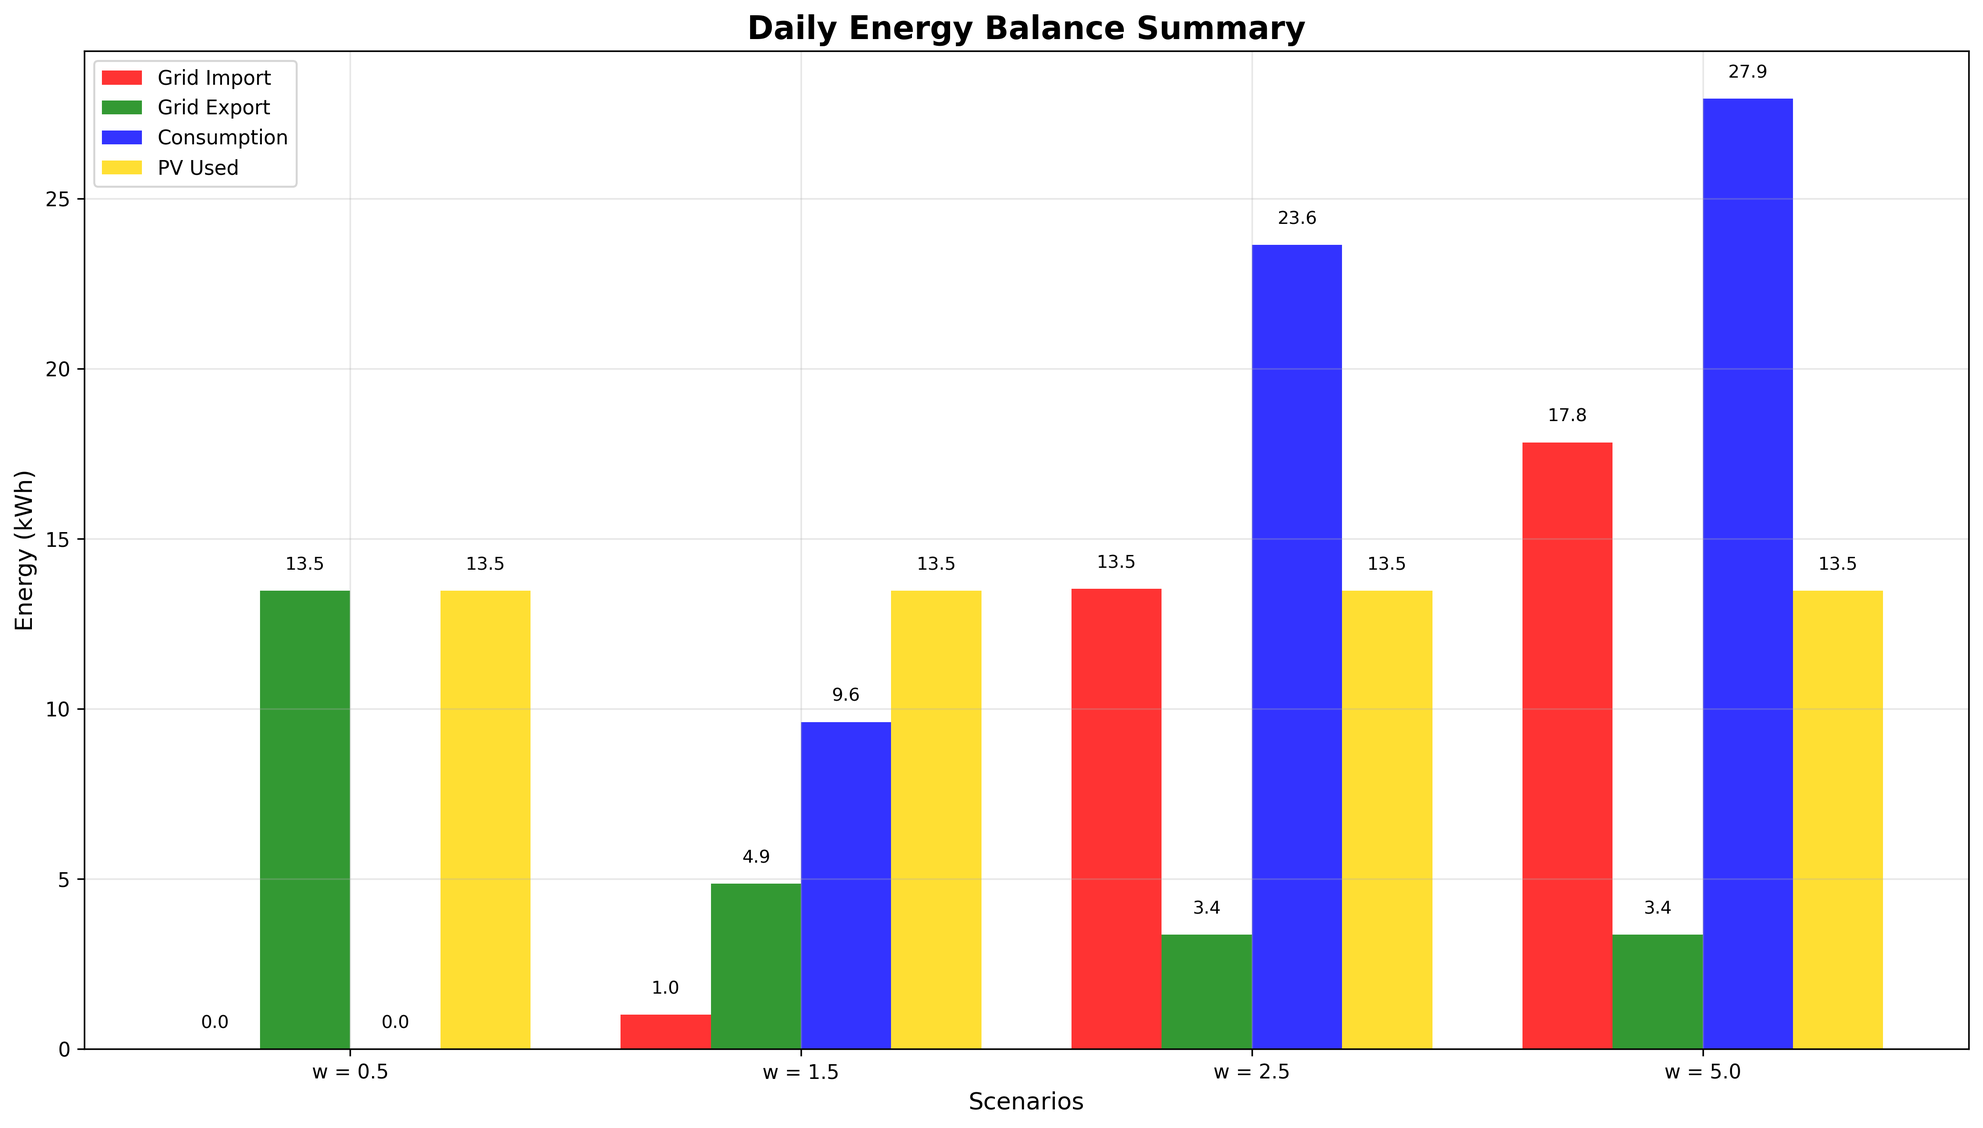
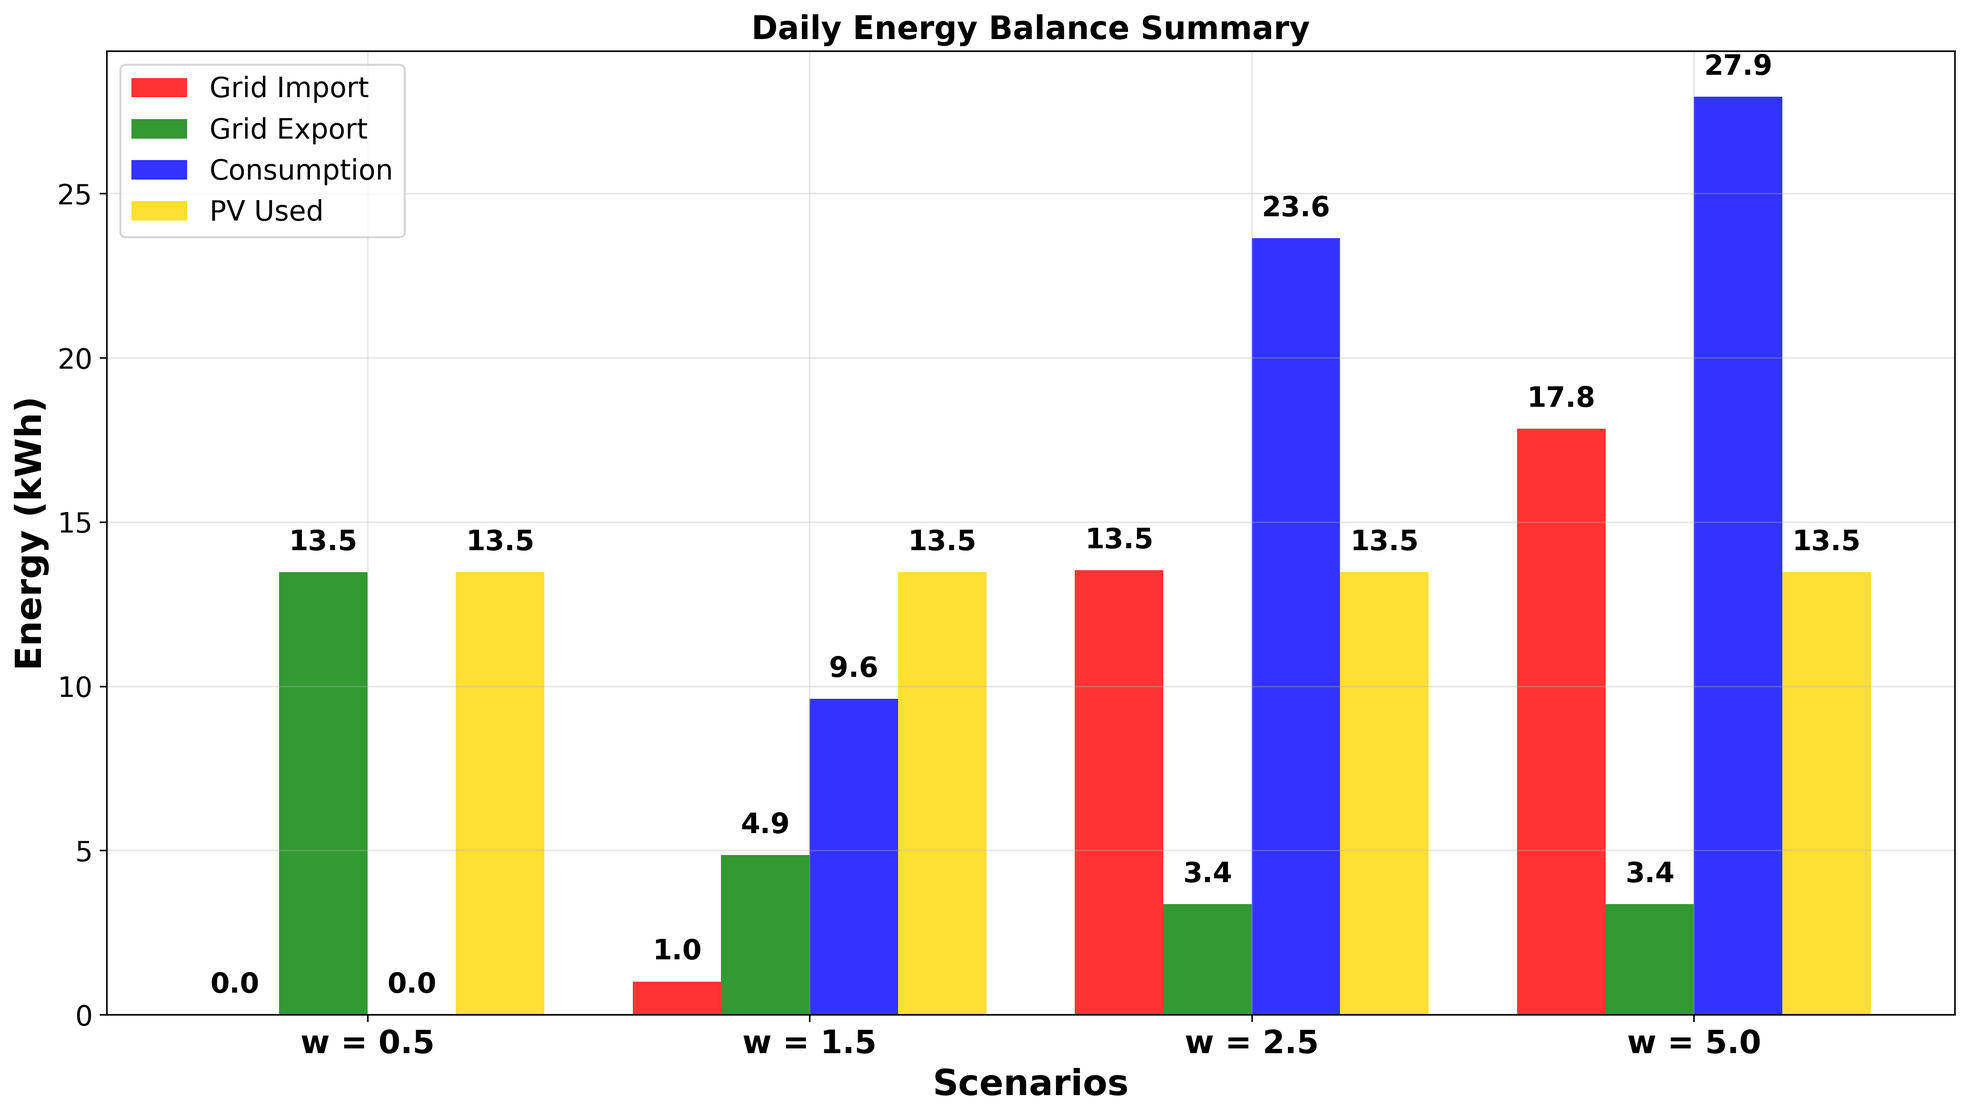
Q1b

diff --git a/src/scripts/q1b_v_final.py b/src/scripts/q1b_v_final.py
@@ -28,6 +28,19 @@ import matplotlib.pyplot as plt
 from pathlib import Path
 import copy
 
+# Configure matplotlib for larger fonts (better for reports)
+plt.rcParams.update({
+    'font.size': 14,           # Base font size
+    'axes.titlesize': 18,      # Title font size
+    'axes.labelsize': 16,      # Axis label font size
+    'xtick.labelsize': 14,     # X tick label font size
+    'ytick.labelsize': 14,     # Y tick label font size
+    'legend.fontsize': 14,     # Legend font size
+    'figure.titlesize': 20,    # Figure title font size
+    'lines.linewidth': 3,      # Line width
+    'lines.markersize': 8      # Marker size
+})
+
 # Add parent directory to path for imports
 sys.path.append(str(Path(__file__).parent.parent))
 
@@ -57,6 +70,129 @@ def load_system_parameters():
         'import_tariff': import_tariff,
         'export_tariff': export_tariff
     }
+
+def print_solution_summary(scenario_results, consumer_results, system_params):
+    """Print comprehensive summary of primal and dual variables for all scenarios"""
+    
+    print("\n" + "="*80)
+    print("📊 COMPREHENSIVE SOLUTION SUMMARY - Q1.b.v")
+    print("="*80)
+    
+    # W-Variation Analysis Summary
+    print("\n🔍 PART 1: W-VARIATION ANALYSIS")
+    print("-" * 50)
+    
+    for i, scenario in enumerate(scenario_results):
+        results = scenario['results']
+        w = scenario['weight']
+        
+        print(f"\n📈 Scenario {i+1}: w = {w} DKK/kWh")
+        print(f"   Total Cost: {results['optimal_cost']:.2f} DKK")
+        print(f"   Energy Cost: {results['energy_cost']:.2f} DKK")
+        print(f"   Discomfort Cost: {results['discomfort_penalty']:.2f} DKK")
+        
+        # Key Primal Variables
+        print("   🔵 Key Primal Variables:")
+        print(f"     • Total Load: {results['total_energy_consumed']:.1f} kWh")
+        print(f"     • Grid Import: {results['total_imported']:.1f} kWh")
+        print(f"     • Grid Export: {results['total_exported']:.1f} kWh")
+        print(f"     • Over-consumption: {results['total_dev_plus']:.1f} kWh")
+        print(f"     • Under-consumption: {results['total_dev_minus']:.1f} kWh")
+        
+        # Key Dual Variables (Shadow Prices)
+        print("   🔴 Key Dual Variables (Shadow Prices):")
+        print(f"     • Avg Energy Balance Dual: {results['avg_dual_energy']:.3f} DKK/kWh")
+        print(f"     • Avg Deviation Balance Dual: {results['avg_dual_deviation']:.3f} DKK/kWh")
+        print(f"     • Peak Import Dual: {results['peak_dual_import']:.3f} DKK/kWh")
+        print(f"     • Peak Export Dual: {results['peak_dual_export']:.3f} DKK/kWh")
+        
+        # Flexibility Metrics
+        ref_total = sum(results['reference_load'])
+        flexibility_used = (results['total_dev_plus'] + results['total_dev_minus'])
+        flexibility_pct = (flexibility_used / ref_total) * 100
+        print(f"   📊 Flexibility: {flexibility_pct:.1f}% of reference load utilized")
+        
+        # Profit Analysis (negative cost = profit from grid arbitrage)
+        if results['energy_cost'] < 0:
+            profit = -results['energy_cost']
+            print(f"   💰 Grid Arbitrage Profit: {profit:.2f} DKK")
+    
+    # Consumer Profile Analysis Summary
+    print(f"\n🔍 PART 2: CONSUMER PROFILE ANALYSIS")
+    print("-" * 50)
+    
+    for i, consumer in enumerate(consumer_results):
+        results = consumer['results']
+        name = consumer['name']
+        
+        print(f"\n👤 Consumer {i+1}: {name}")
+        print(f"   Total Cost: {results['optimal_cost']:.2f} DKK")
+        print(f"   Energy Cost: {results['energy_cost']:.2f} DKK")
+        print(f"   Discomfort Cost: {results['discomfort_penalty']:.2f} DKK")
+        
+        # Key Primal Variables
+        print("   🔵 Key Primal Variables:")
+        print(f"     • Total Load: {results['total_energy_consumed']:.1f} kWh")
+        print(f"     • Grid Import: {results['total_imported']:.1f} kWh") 
+        print(f"     • Grid Export: {results['total_exported']:.1f} kWh")
+        print(f"     • Over-consumption: {results['total_dev_plus']:.1f} kWh")
+        print(f"     • Under-consumption: {results['total_dev_minus']:.1f} kWh")
+        
+        # Key Dual Variables
+        print("   🔴 Key Dual Variables (Shadow Prices):")
+        print(f"     • Avg Energy Balance Dual: {results['avg_dual_energy']:.3f} DKK/kWh")
+        print(f"     • Avg Deviation Balance Dual: {results['avg_dual_deviation']:.3f} DKK/kWh")
+        
+        # Flexibility and Profit Analysis
+        ref_total = sum(results['reference_load'])
+        flexibility_used = (results['total_dev_plus'] + results['total_dev_minus'])
+        flexibility_pct = (flexibility_used / ref_total) * 100
+        print(f"   📊 Flexibility: {flexibility_pct:.1f}% of reference load utilized")
+        
+        if results['energy_cost'] < 0:
+            profit = -results['energy_cost']
+            print(f"   💰 Grid Arbitrage Profit: {profit:.2f} DKK")
+    
+    # Comparative Analysis
+    print(f"\n🔍 COMPARATIVE INSIGHTS")
+    print("-" * 50)
+    
+    # W-variation insights
+    w_costs = [s['results']['optimal_cost'] for s in scenario_results]
+    w_flexibility = []
+    for s in scenario_results:
+        r = s['results']
+        ref_total = sum(r['reference_load'])
+        flex_used = r['total_dev_plus'] + r['total_dev_minus']
+        w_flexibility.append((flex_used / ref_total) * 100)
+    
+    print("📈 W-Variation Impact:")
+    print(f"   • Cost Range: {min(w_costs):.2f} - {max(w_costs):.2f} DKK")
+    print(f"   • Flexibility Range: {min(w_flexibility):.1f}% - {max(w_flexibility):.1f}%")
+    print(f"   • Trend: Higher w → Lower flexibility, Higher total cost")
+    
+    # Consumer insights
+    consumer_costs = [c['results']['optimal_cost'] for c in consumer_results]
+    consumer_names = [c['name'] for c in consumer_results]
+    
+    print("👥 Consumer Profile Impact:")
+    print(f"   • Cost Range: {min(consumer_costs):.2f} - {max(consumer_costs):.2f} DKK")
+    
+    # Find most/least flexible consumers
+    consumer_flex = []
+    for c in consumer_results:
+        r = c['results']
+        ref_total = sum(r['reference_load'])
+        flex_used = r['total_dev_plus'] + r['total_dev_minus']
+        consumer_flex.append((flex_used / ref_total) * 100)
+    
+    most_flexible_idx = consumer_flex.index(max(consumer_flex))
+    least_flexible_idx = consumer_flex.index(min(consumer_flex))
+    
+    print(f"   • Most Flexible: {consumer_names[most_flexible_idx]} ({consumer_flex[most_flexible_idx]:.1f}%)")
+    print(f"   • Least Flexible: {consumer_names[least_flexible_idx]} ({consumer_flex[least_flexible_idx]:.1f}%)")
+    
+    print("="*80)
 
 def get_consumer_configurations():
     """Define consumer load profiles based on realistic usage patterns"""
@@ -138,6 +274,29 @@ def solve_w_variation_scenarios():
             print(f"   Energy Cost = {results['energy_cost']:.2f} DKK")
             print(f"   Discomfort Cost = {results['discomfort_penalty']:.2f} DKK")
             print(f"   Flexibility = {flexibility_pct:.1f}%")
+            
+            # Detailed Primal and Dual Variable Reporting
+            print(f"\n🔵 PRIMAL VARIABLES (w = {w} DKK/kWh):")
+            print(f"   • Total Load: {results['total_energy_consumed']:.2f} kWh")
+            print(f"   • Grid Import: {results['total_imported']:.2f} kWh")
+            print(f"   • Grid Export: {results['total_exported']:.2f} kWh")
+            print(f"   • PV Used: {results['total_pv_used']:.2f} kWh")
+            print(f"   • Over-consumption: {results['total_dev_plus']:.2f} kWh")
+            print(f"   • Under-consumption: {results['total_dev_minus']:.2f} kWh")
+            
+            print(f"\n🔴 DUAL VARIABLES (Shadow Prices, w = {w} DKK/kWh):")
+            print(f"   • Avg Energy Balance Dual: {results['avg_dual_energy']:.4f} DKK/kWh")
+            print(f"   • Avg Deviation Balance Dual: {results['avg_dual_deviation']:.4f} DKK/kWh")
+            print(f"   • Peak Import Dual: {results['peak_dual_import']:.4f} DKK/kWh")
+            print(f"   • Peak Export Dual: {results['peak_dual_export']:.4f} DKK/kWh")
+            
+            # Economic interpretation
+            if results['avg_dual_energy'] != 0:
+                print(f"   📊 Energy Balance: Shadow price = {results['avg_dual_energy']:.4f}")
+                print(f"      → Marginal value of relaxing energy balance constraints")
+            if results['avg_dual_deviation'] != 0:
+                print(f"   📊 Deviation Balance: Shadow price = {results['avg_dual_deviation']:.4f}")
+                print(f"      → Marginal cost of allowing more flexibility deviations")
         else:
             print(f"❌ No solution found for w = {w}")
     
@@ -185,24 +344,25 @@ def create_load_profiles_comparison(scenario_results, system_params):
     
     # Secondary y-axis for energy prices
     ax2 = ax1.twinx()
-    ax2.step(hours, energy_prices, where='mid', color='purple', linewidth=2, 
+    ax2.step(hours, energy_prices, where='mid', color='purple', linewidth=3, 
             linestyle=':', label='Energy Price', alpha=0.8)
-    ax2.set_ylabel('Energy Price (DKK/kWh)', fontsize=12, color='purple')
-    ax2.tick_params(axis='y', labelcolor='purple')
+    ax2.set_ylabel('Energy Price (DKK/kWh)', fontsize=18, color='purple', fontweight='bold')
+    ax2.tick_params(axis='y', labelcolor='purple', labelsize=14)
     
-    # Formatting
-    ax1.set_xlabel('Hour of Day', fontsize=12)
-    ax1.set_ylabel('Load Consumption (kWh)', fontsize=12)
+    # Formatting with larger fonts
+    ax1.set_xlabel('Hour of Day', fontsize=18, fontweight='bold')
+    ax1.set_ylabel('Load Consumption (kWh)', fontsize=18, fontweight='bold')
     ax1.set_xlim(0.5, 24.5)
     ax1.set_xticks(range(1, 25, 2))
+    ax1.tick_params(labelsize=14)
     ax1.grid(True, alpha=0.3)
     
-    plt.title('Load Profiles Comparison with Energy Prices', fontsize=16, fontweight='bold')
+    plt.title('Load Profiles Comparison with Energy Prices', fontsize=22, fontweight='bold', pad=20)
     
-    # Combined legend
+    # Combined legend with larger font
     lines1, labels1 = ax1.get_legend_handles_labels()
     lines2, labels2 = ax2.get_legend_handles_labels()
-    ax1.legend(lines1 + lines2, labels1 + labels2, loc='upper left', framealpha=0.9)
+    ax1.legend(lines1 + lines2, labels1 + labels2, loc='upper left', framealpha=0.9, fontsize=16)
     
     plt.tight_layout()
     plt.savefig('Q1b_v_Load_Profiles_Comparison.png', dpi=300, bbox_inches='tight')
@@ -249,18 +409,19 @@ def create_cost_breakdown_analysis(scenario_results, system_params):
     bars2 = ax.bar(x, [-rev for rev in energy_revenues], width, label='Energy Revenue', color='lightgreen', alpha=0.8)
     bars3 = ax.bar(x + width, discomfort_costs, width, label='Discomfort Cost', color='lightblue', alpha=0.8)
     
-    # Add value labels on bars
+    # Add value labels on bars with larger font
     for i, (e_cost, e_rev, d_cost) in enumerate(zip(energy_costs, energy_revenues, discomfort_costs)):
-        ax.text(i - width, e_cost + 0.5, f'{e_cost:.1f}', ha='center', va='bottom', fontsize=10)
-        ax.text(i, -e_rev - 0.5, f'{e_rev:.1f}', ha='center', va='top', fontsize=10)
-        ax.text(i + width, d_cost + 0.5, f'{d_cost:.1f}', ha='center', va='bottom', fontsize=10)
+        ax.text(i - width, e_cost + 0.5, f'{e_cost:.1f}', ha='center', va='bottom', fontsize=14, fontweight='bold')
+        ax.text(i, -e_rev - 0.5, f'{e_rev:.1f}', ha='center', va='top', fontsize=14, fontweight='bold')
+        ax.text(i + width, d_cost + 0.5, f'{d_cost:.1f}', ha='center', va='bottom', fontsize=14, fontweight='bold')
     
-    ax.set_xlabel('Scenarios', fontsize=12)
-    ax.set_ylabel('Cost/Revenue (DKK)', fontsize=12)
-    ax.set_title('Cost Breakdown Analysis: Energy vs Discomfort', fontsize=16, fontweight='bold')
+    ax.set_xlabel('Scenarios', fontsize=18, fontweight='bold')
+    ax.set_ylabel('Cost/Revenue (DKK)', fontsize=18, fontweight='bold')
+    ax.set_title('Cost Breakdown Analysis: Energy vs Discomfort', fontsize=22, fontweight='bold', pad=20)
     ax.set_xticks(x)
-    ax.set_xticklabels(scenarios)
-    ax.legend()
+    ax.set_xticklabels(scenarios, fontsize=16, fontweight='bold')
+    ax.tick_params(labelsize=14)
+    ax.legend(fontsize=16)
     ax.grid(True, alpha=0.3)
     ax.axhline(y=0, color='black', linestyle='-', alpha=0.3)
     
@@ -288,19 +449,19 @@ def create_energy_balance_summary(scenario_results, system_params):
     bars2 = ax.bar(x - 0.5*width, exports, width, label='Grid Export', color='green', alpha=0.8)
     bars3 = ax.bar(x + 0.5*width, consumption, width, label='Consumption', color='blue', alpha=0.8)
     bars4 = ax.bar(x + 1.5*width, pv_used, width, label='PV Used', color='gold', alpha=0.8)
-    
+
     # Add value labels on bars
     for i, (imp, exp, cons, pv) in enumerate(zip(imports, exports, consumption, pv_used)):
-        ax.text(i - 1.5*width, imp + 0.5, f'{imp:.1f}', ha='center', va='bottom', fontsize=9)
-        ax.text(i - 0.5*width, exp + 0.5, f'{exp:.1f}', ha='center', va='bottom', fontsize=9)
-        ax.text(i + 0.5*width, cons + 0.5, f'{cons:.1f}', ha='center', va='bottom', fontsize=9)
-        ax.text(i + 1.5*width, pv + 0.5, f'{pv:.1f}', ha='center', va='bottom', fontsize=9)
-    
-    ax.set_xlabel('Scenarios', fontsize=12)
-    ax.set_ylabel('Energy (kWh)', fontsize=12)
+        ax.text(i - 1.5*width, imp + 0.5, f'{imp:.1f}', ha='center', va='bottom', fontsize=14, fontweight='bold')
+        ax.text(i - 0.5*width, exp + 0.5, f'{exp:.1f}', ha='center', va='bottom', fontsize=14, fontweight='bold')
+        ax.text(i + 0.5*width, cons + 0.5, f'{cons:.1f}', ha='center', va='bottom', fontsize=14, fontweight='bold')
+        ax.text(i + 1.5*width, pv + 0.5, f'{pv:.1f}', ha='center', va='bottom', fontsize=14, fontweight='bold')
+
+    ax.set_xlabel('Scenarios', fontsize=18, fontweight='bold')
+    ax.set_ylabel('Energy (kWh)', fontsize=18, fontweight='bold')
     ax.set_title('Daily Energy Balance Summary', fontsize=16, fontweight='bold')
     ax.set_xticks(x)
-    ax.set_xticklabels(scenarios)
+    ax.set_xticklabels(scenarios, fontsize=16, fontweight='bold')
     ax.legend()
     ax.grid(True, alpha=0.3)
     
@@ -324,13 +485,14 @@ def create_under_consumption_patterns(scenario_results, system_params):
         ax.bar(hours + i*0.2 - 0.3, under_consumption, width=0.2, 
                color=colors[i], alpha=0.7, label=f'{scenario["name"]}')
     
-    ax.set_title('Consumer Under-Consumption Patterns by Scenario', fontsize=16, fontweight='bold')
-    ax.set_xlabel('Hour of Day', fontsize=12)
-    ax.set_ylabel('Under-consumption (kWh)', fontsize=12)
+    ax.set_title('Consumer Under-Consumption Patterns by Scenario', fontsize=22, fontweight='bold', pad=20)
+    ax.set_xlabel('Hour of Day', fontsize=18, fontweight='bold')
+    ax.set_ylabel('Under-consumption (kWh)', fontsize=18, fontweight='bold')
     ax.set_xlim(0.5, 24.5)
     ax.set_xticks(range(1, 25, 2))
+    ax.tick_params(labelsize=14)
     ax.grid(True, alpha=0.3)
-    ax.legend()
+    ax.legend(fontsize=16)
     
     plt.tight_layout()
     plt.savefig('Q1b_v_Under_Consumption_Patterns.png', dpi=300, bbox_inches='tight')
@@ -393,6 +555,21 @@ def solve_consumer_load_scenarios():
                 print(f"   Energy Cost = {results['energy_cost']:.2f} DKK")
                 print(f"   Discomfort Cost = {results['discomfort_penalty']:.2f} DKK")
                 print(f"   Flexibility = {flexibility_pct:.1f}%")
+                
+                # Detailed Primal and Dual Variable Reporting for Consumer
+                print(f"\n🔵 PRIMAL VARIABLES ({consumer_type}):")
+                print(f"   • Total Load: {results['total_energy_consumed']:.2f} kWh")
+                print(f"   • Grid Import: {results['total_imported']:.2f} kWh")
+                print(f"   • Grid Export: {results['total_exported']:.2f} kWh")
+                print(f"   • PV Used: {results['total_pv_used']:.2f} kWh")
+                print(f"   • Over-consumption: {results['total_dev_plus']:.2f} kWh")
+                print(f"   • Under-consumption: {results['total_dev_minus']:.2f} kWh")
+                
+                print(f"\n🔴 DUAL VARIABLES ({consumer_type}):")
+                print(f"   • Avg Energy Balance Dual: {results['avg_dual_energy']:.4f} DKK/kWh")
+                print(f"   • Avg Deviation Balance Dual: {results['avg_dual_deviation']:.4f} DKK/kWh")
+                print(f"   • Peak Import Dual: {results['peak_dual_import']:.4f} DKK/kWh")
+                print(f"   • Peak Export Dual: {results['peak_dual_export']:.4f} DKK/kWh")
             else:
                 print(f"No solution found for {consumer_type}")
                 
@@ -427,27 +604,28 @@ def create_individual_consumer_plot(consumer, plot_num, system_params):
             linewidth=3, label='Reference Load', alpha=0.8)
     ax1.step(hours, results['load_schedule'], where='mid', color='blue', linewidth=3, 
             label='Actual Load', alpha=0.9)
-    
+
     # Secondary y-axis for energy prices
     ax2 = ax1.twinx()
-    ax2.step(hours, energy_prices, where='mid', color='red', linewidth=2, 
+    ax2.step(hours, energy_prices, where='mid', color='red', linewidth=3, 
             linestyle=':', label='Energy Price', alpha=0.8)
-    ax2.set_ylabel('Energy Price (DKK/kWh)', fontsize=12, color='red')
-    ax2.tick_params(axis='y', labelcolor='red')
+    ax2.set_ylabel('Energy Price (DKK/kWh)', fontsize=18, color='red')
+    ax2.tick_params(axis='y', labelcolor='red', labelsize=14)
     
-    # Formatting
-    ax1.set_xlabel('Hour of Day', fontsize=12)
-    ax1.set_ylabel('Load Consumption (kWh)', fontsize=12, color='blue')
+    # Formatting with larger fonts
+    ax1.set_xlabel('Hour of Day', fontsize=18, fontweight='bold')
+    ax1.set_ylabel('Load Consumption (kWh)', fontsize=18, color='blue', fontweight='bold')
     ax1.set_xlim(0.5, 24.5)
     ax1.set_xticks(range(1, 25, 2))
+    ax1.tick_params(labelsize=14)
     ax1.grid(True, alpha=0.3)
     
-    plt.title(f'Load Profile: {consumer["name"]} (w={consumer["weight"]} DKK/kWh)', fontsize=14, fontweight='bold')
+    plt.title(f'Load Profile: {consumer["name"]} (w={consumer["weight"]} DKK/kWh)', fontsize=20, fontweight='bold', pad=20)
     
-    # Combined legend
+    # Combined legend with larger font
     lines1, labels1 = ax1.get_legend_handles_labels()
     lines2, labels2 = ax2.get_legend_handles_labels()
-    ax1.legend(lines1 + lines2, labels1 + labels2, loc='upper left', framealpha=0.9)
+    ax1.legend(lines1 + lines2, labels1 + labels2, loc='upper left', framealpha=0.9, fontsize=16)
     
     plt.tight_layout()
     plt.savefig(f'Q1b_v_Consumer_{plot_num}_{consumer["name"].replace(" ", "_")}.png', 
@@ -488,15 +666,15 @@ def create_consumer_cost_breakdown(consumer_results, system_params):
     
     # Add value labels on bars
     for i, (e_cost, e_rev, d_cost) in enumerate(zip(energy_costs, energy_revenues, discomfort_costs)):
-        ax.text(i - width, e_cost + 0.5, f'{e_cost:.1f}', ha='center', va='bottom', fontsize=10)
-        ax.text(i, -e_rev - 0.5, f'{e_rev:.1f}', ha='center', va='top', fontsize=10)
-        ax.text(i + width, d_cost + 0.5, f'{d_cost:.1f}', ha='center', va='bottom', fontsize=10)
-    
-    ax.set_xlabel('Consumer Types', fontsize=12)
-    ax.set_ylabel('Cost/Revenue (DKK)', fontsize=12)
+        ax.text(i - width, e_cost + 0.5, f'{e_cost:.1f}', ha='center', va='bottom', fontsize=14, fontweight='bold')
+        ax.text(i, -e_rev - 0.5, f'{e_rev:.1f}', ha='center', va='top', fontsize=14, fontweight='bold')
+        ax.text(i + width, d_cost + 0.5, f'{d_cost:.1f}', ha='center', va='bottom', fontsize=14, fontweight='bold')
+
+    ax.set_xlabel('Consumer Types', fontsize=18, fontweight='bold')
+    ax.set_ylabel('Cost/Revenue (DKK)', fontsize=18, fontweight='bold')
     ax.set_title('Consumer Cost Breakdown: Energy vs Discomfort', fontsize=16, fontweight='bold')
     ax.set_xticks(x)
-    ax.set_xticklabels(consumers, rotation=45, ha='right')
+    ax.set_xticklabels(consumers, rotation=45, ha='right', fontsize=16, fontweight='bold')
     ax.legend()
     ax.grid(True, alpha=0.3)
     ax.axhline(y=0, color='black', linestyle='-', alpha=0.3)
@@ -533,8 +711,11 @@ def main():
             create_consumer_load_plots(consumer_results, system_params)
             print("✅ Part 2 Complete: 5 Consumer profile plots created!")
         
+        # Print comprehensive solution summary
+        print_solution_summary(w_results, consumer_results, system_params)
+        
         print("\n" + "=" * 60)
-        print(" ANALYSIS COMPLETE!")
+        print("🎉 ANALYSIS COMPLETE!")
         print("=" * 60)
         print(" Total Plots Generated: 9")
         print("   PART 1 (W-variation): 4 plots")
